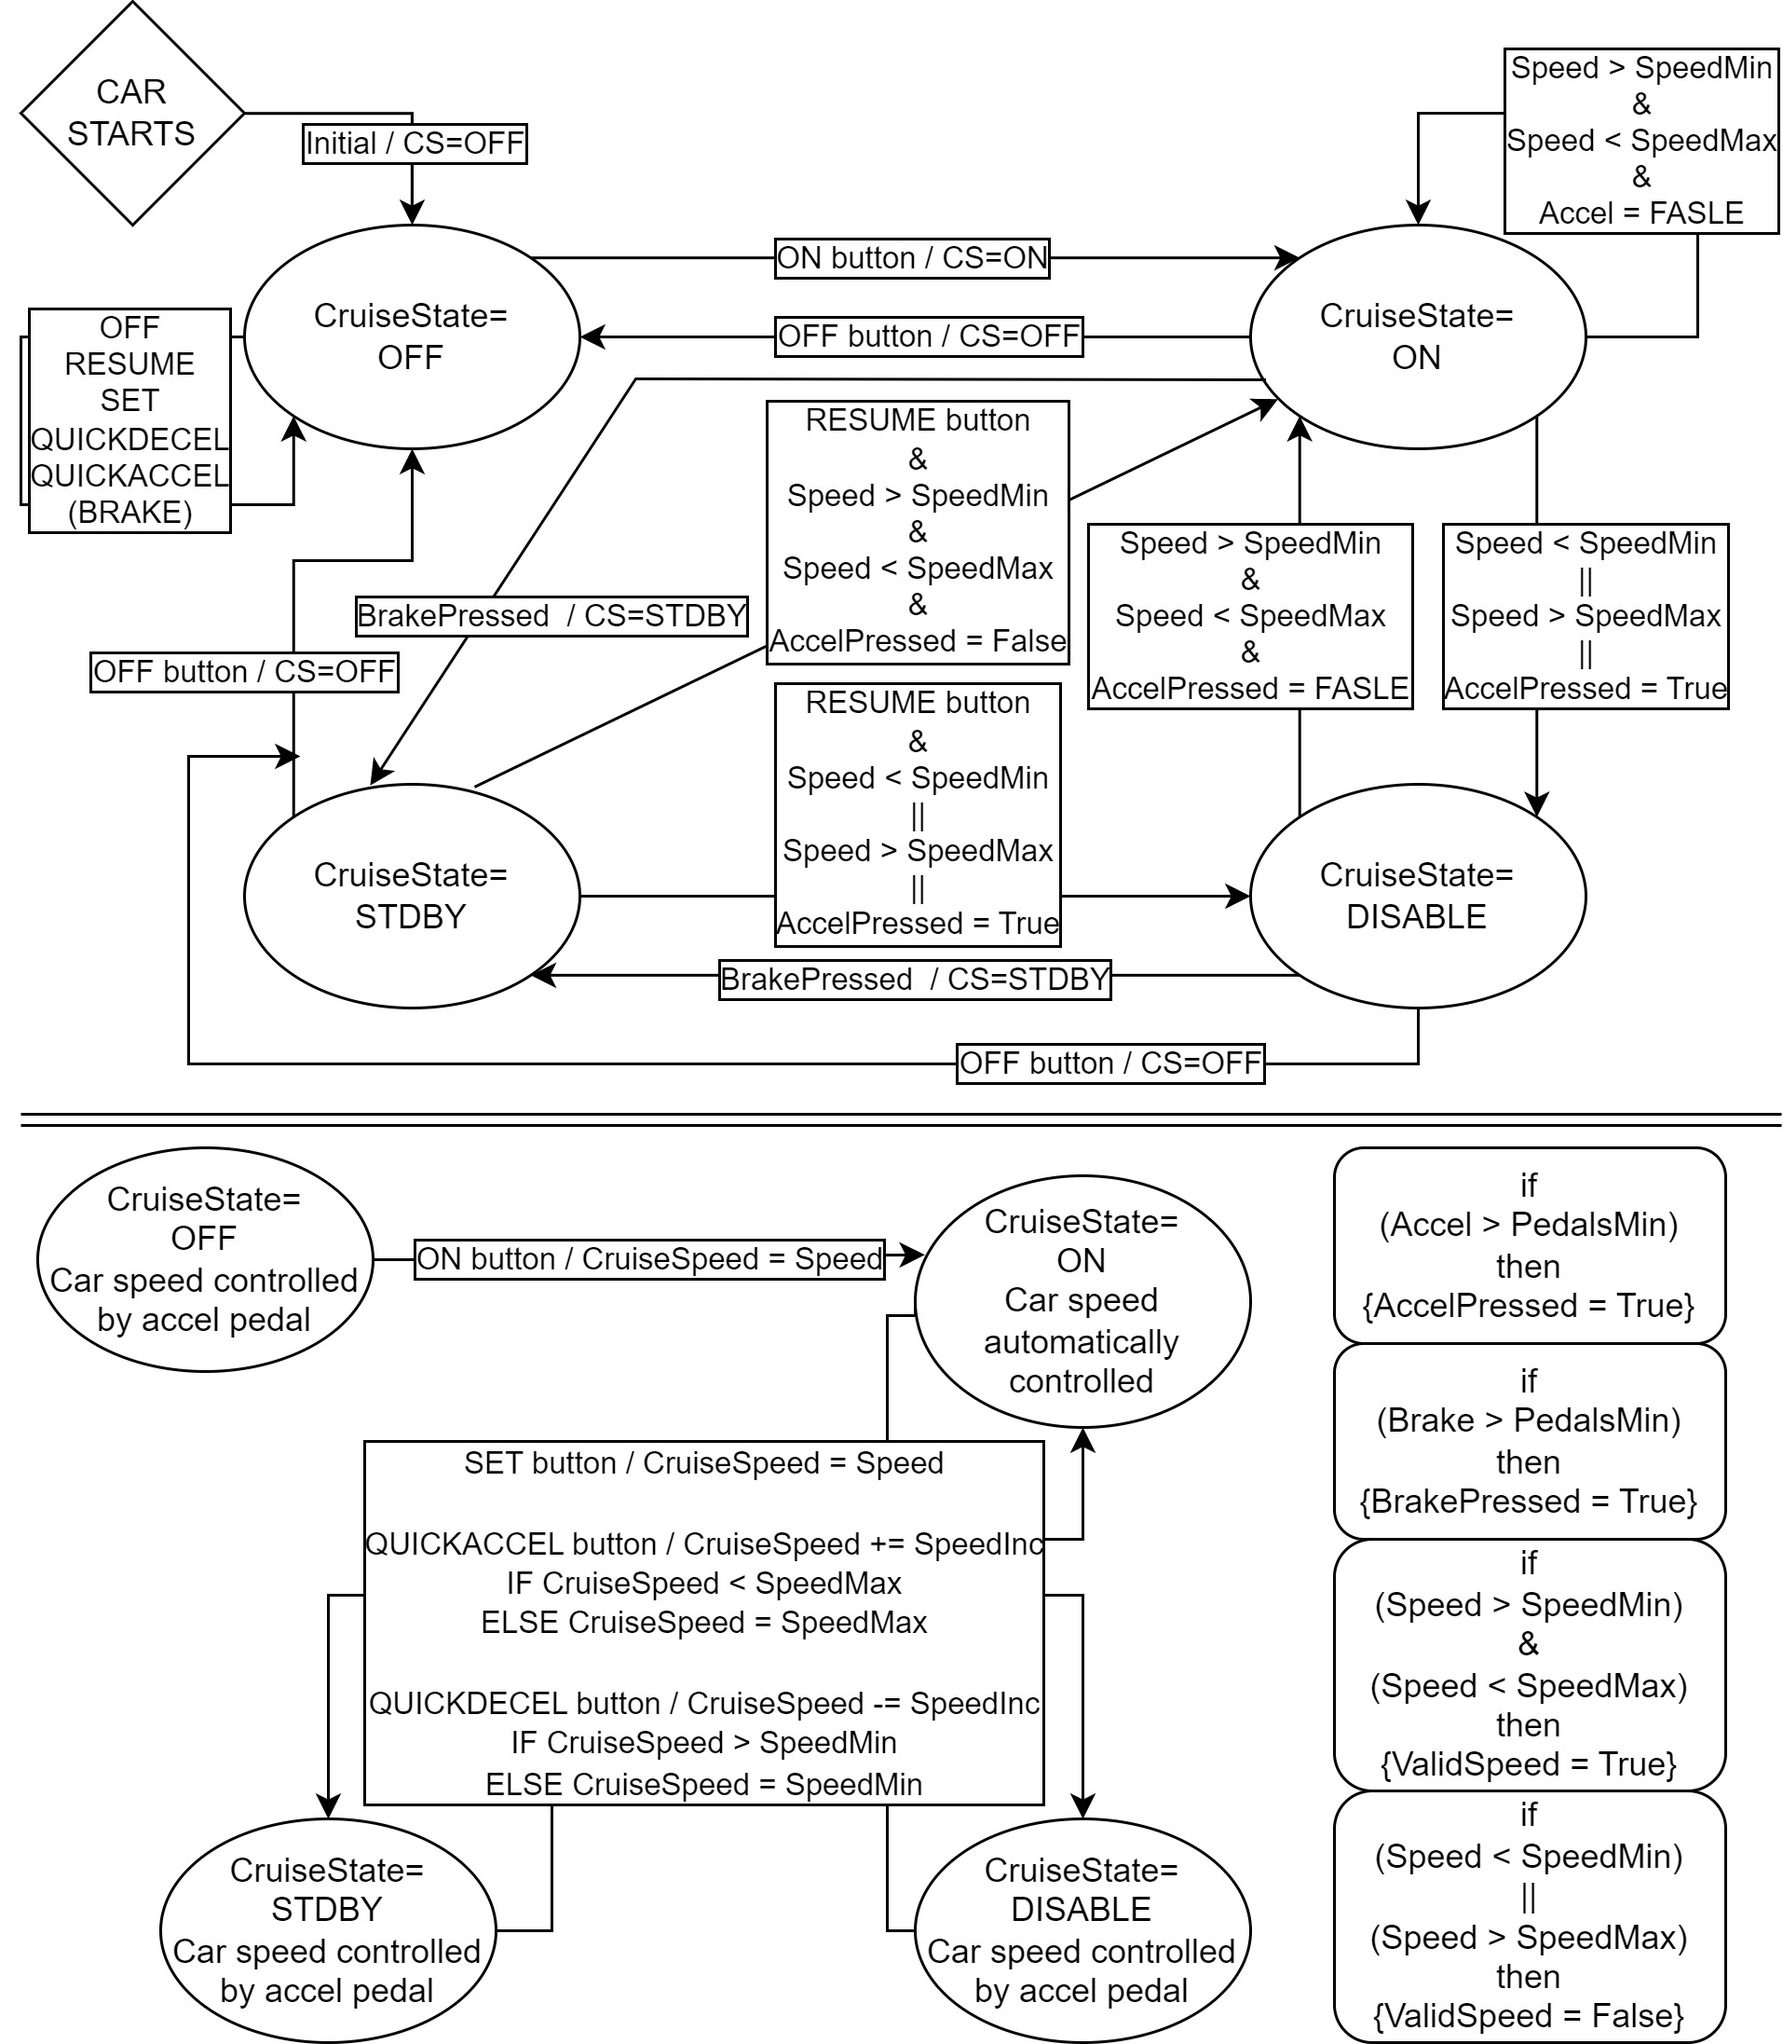
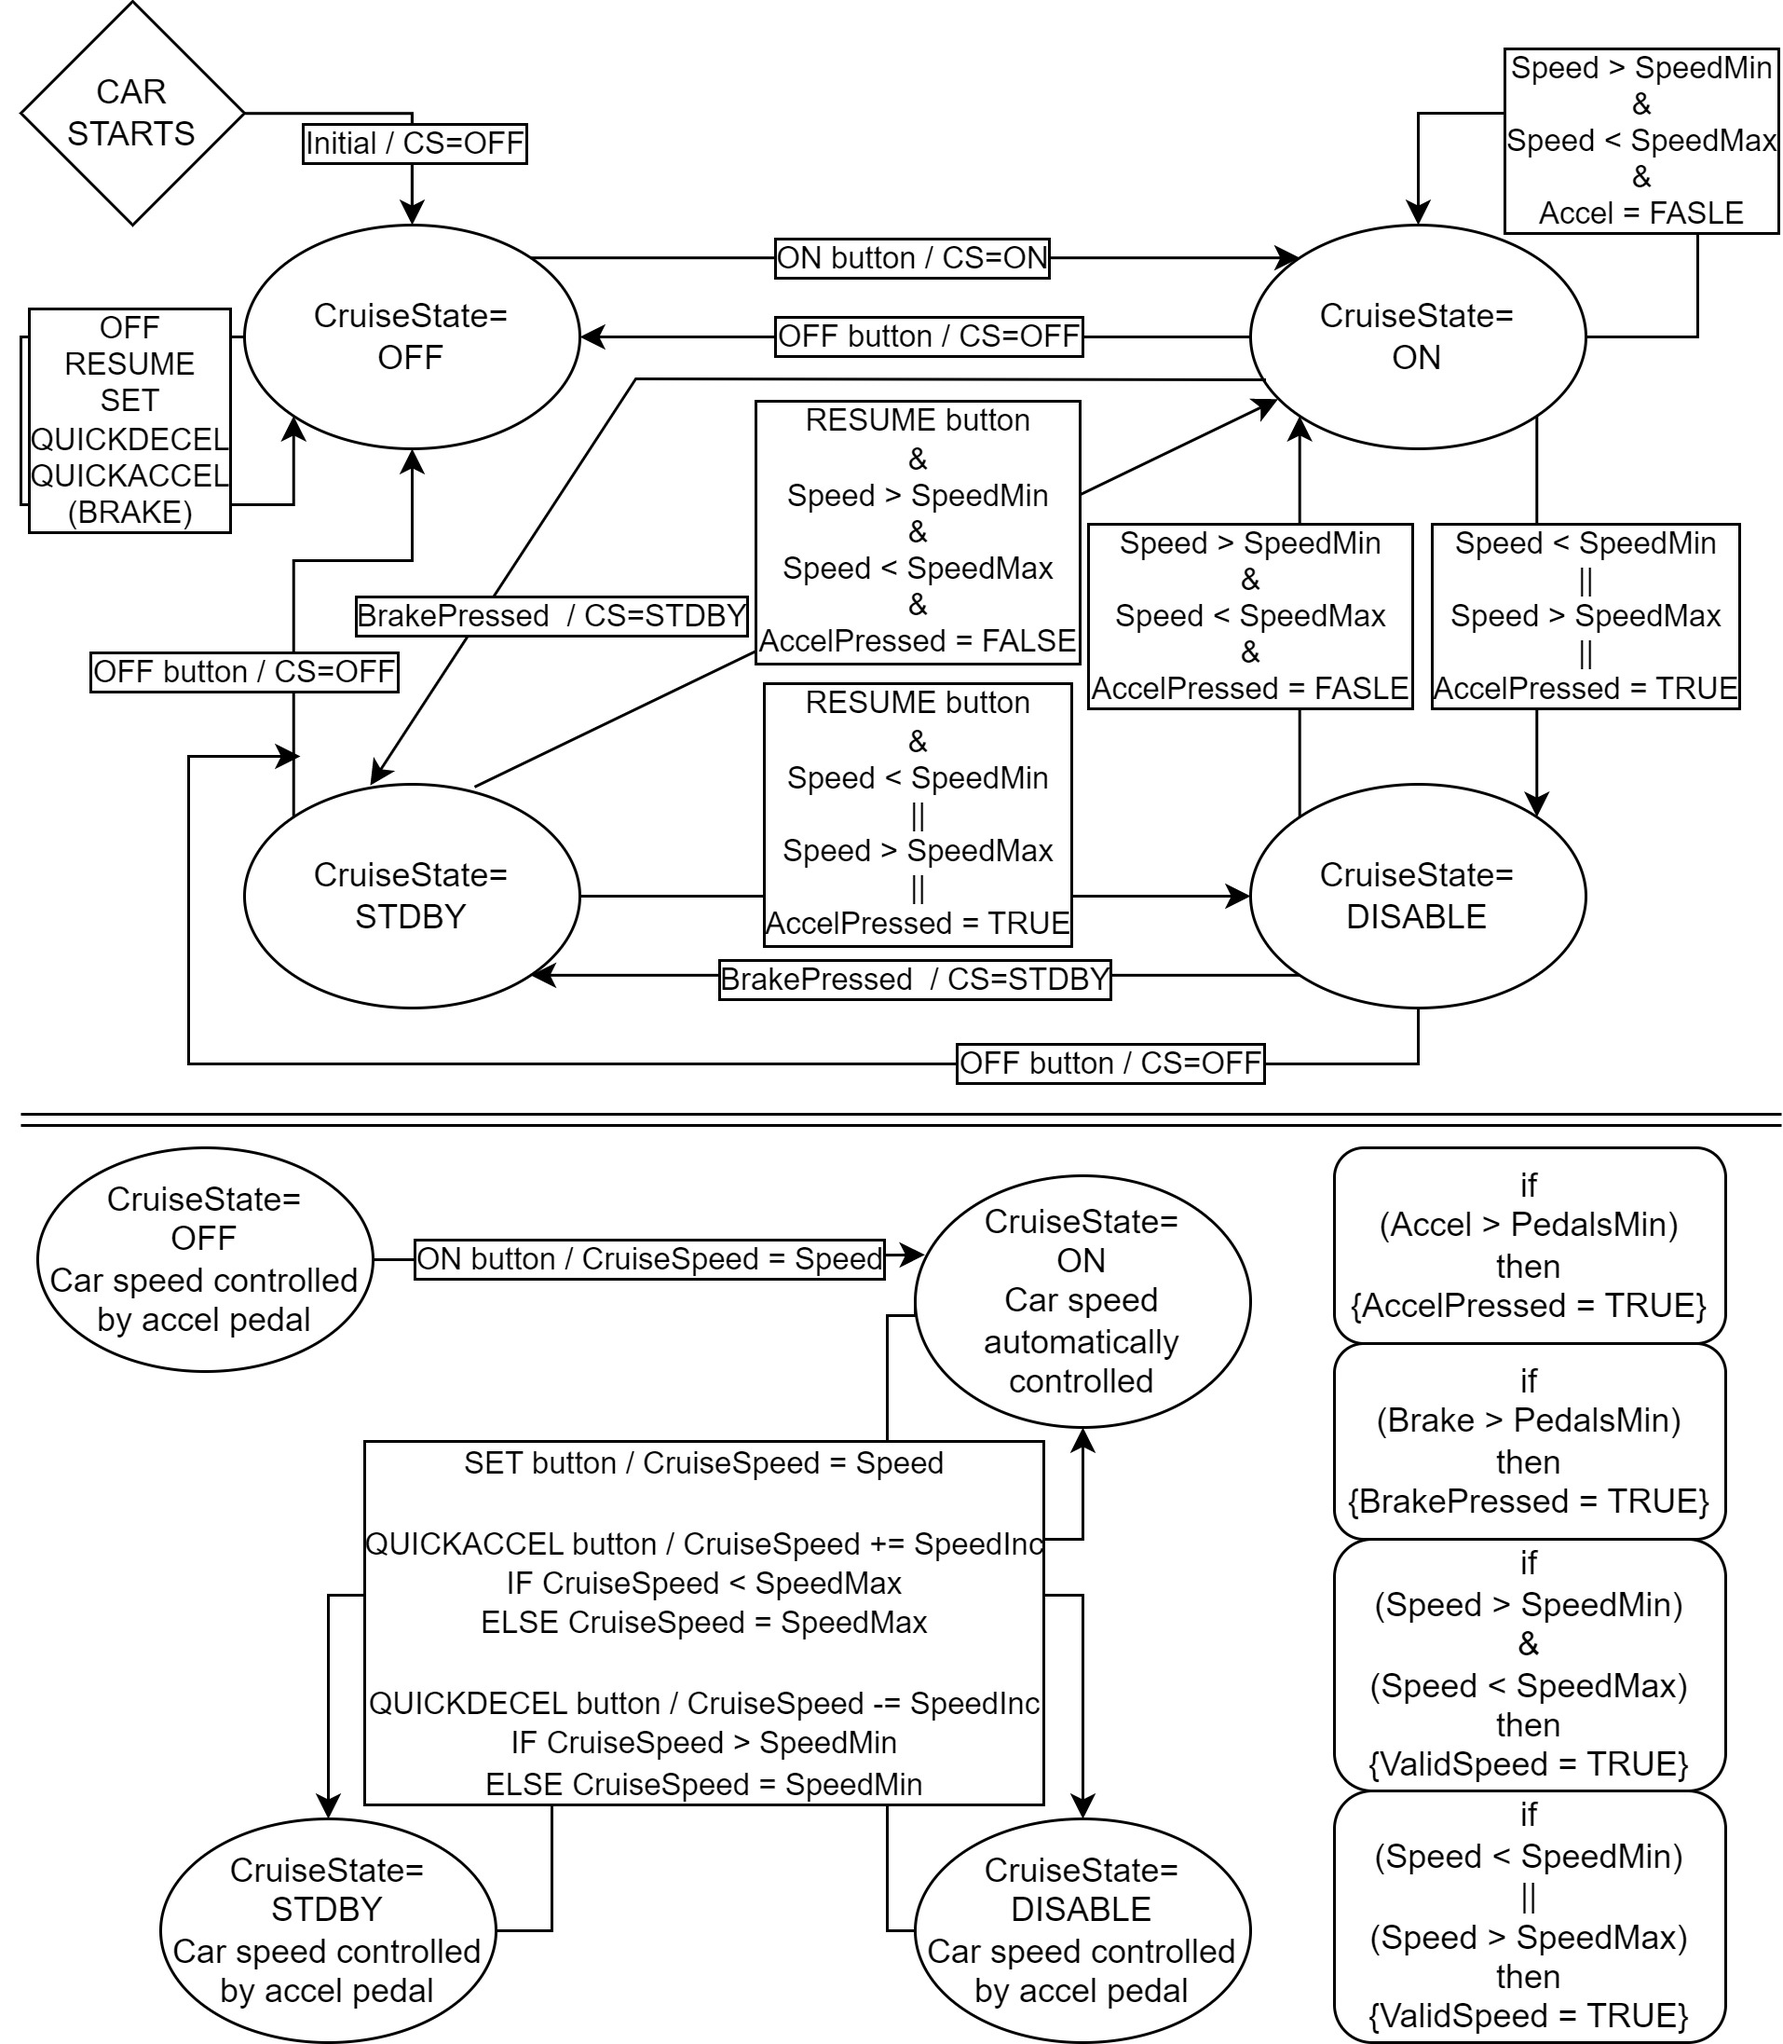
created readme for code and fixed problem in flowchart

diff --git a/Assignment_2/Code/readme.md b/Assignment_2/Code/readme.md
@@ -1,0 +1,40 @@
+# CS723 Assignment 2 - Cruise Control in Esterel
+
+Program files can be found in /src
+
+Compiling the code requires Esterel to be installed, along with Xeve for simulation.
+
+Code can be compiled with 
+
+```
+cd src
+make clean
+make CruiseControl.xes
+```
+and simulated by running
+```
+./CruiseControl.xes
+```
+
+## Inputs
+### Pure Bool
+ - On -- Turns the Cruise Control system on
+ - Off -- Turns the Cruise Control system off
+ - Resume -- Resumes the Cruise Control system after braking
+ - Set -- Attempts to set the Cruise Control speed to the car's current speed
+ - QuickAccel -- Attempts to decrease the Cruise Control speed by a set amount
+ - QuickDecel -- Attempts to increase the Cruise Control speed by a set amount
+### Float
+ - Accel -- How far the accelerator pedal has been pressed
+ - Brake -- How far the decelerator pedal has been pressed
+ - Speed -- How fast the car is currently going
+## System Parameters
+ - SpeedMin - 30.0 km/h - Min speed for cc operation
+ -  SpeedMax - 150.0 km/h - Max speed for cc operation
+ -  SpeedInc - 2.5 km/h - Push button speed increase
+ -  PedalsMin - 3.0 % - Sensitivity of car pedals
+ * Constants for car speed regulation algorithm and control
+ -  Kp - 8.113
+ -  Ki - 0.5
+ -  ThrottleSatMax - 45.0 %
+
